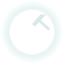
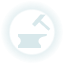
further style adjustments

Changed region(s): [[0.2812, 0.5312, 0.75, 0.75]]

diff --git a/src/db/skills-db.ts b/src/db/skills-db.ts
@@ -157,6 +157,7 @@ const SKILL_DB: Record<SkillId, SkillConfig> = {
       "Teach your swarms to sift shattered bricks with purpose, increasing stone drawn from debris.",
     nodePosition: { x: 0, y: 1 },
     maxLevel: 3,
+    icon: "resource_gain_1.png",
     effects: {
       brick_rewards: {
         multiplier: (level) => 1 + 0.25 * level,
@@ -172,6 +173,7 @@ const SKILL_DB: Record<SkillId, SkillConfig> = {
       "Bind mindless servitors to repeat simple rites for you, enabling basic ritual automation.",
     nodePosition: { x: -1, y: 2 },
     maxLevel: 1,
+    icon: "automation_1.png",
     effects: {},
     nodesRequired: { stone_lore: 1 },
     cost: createStoneCost(10, 1),
@@ -183,6 +185,7 @@ const SKILL_DB: Record<SkillId, SkillConfig> = {
       "Engrave restart sigils—summoning resumes on its own when the weave collapses.",
     nodePosition: { x: -1, y: 3 },
     maxLevel: 1,
+    icon: "automation_2.png",
     effects: {},
     nodesRequired: { stone_automatons: 1 },
     cost: createStoneCost(500, 1),
@@ -194,6 +197,7 @@ const SKILL_DB: Record<SkillId, SkillConfig> = {
       "Found a guild to coordinate permanent worksites, unlocking dedicated building plans.",
     nodePosition: { x: -1, y: 4 },
     maxLevel: 1,
+    icon: "constructions_1.png",
     effects: {},
     nodesRequired: { autorestart_rituals: 1 },
     cost: createResourceCost("copper", 50, 1),
@@ -205,6 +209,7 @@ const SKILL_DB: Record<SkillId, SkillConfig> = {
       "Codify advanced methods for large works—foundation for superior structures.",
     nodePosition: { x: -1, y: 5 },
     maxLevel: 1,
+    icon: "constructions_2.png",
     effects: {},
     nodesRequired: { construction_guild: 1 },
     cost: createResourceCost("copper", 5000, 1),
@@ -216,6 +221,7 @@ const SKILL_DB: Record<SkillId, SkillConfig> = {
       "Improve your crafting speed.",
     nodePosition: { x: -1, y: 6 },
     maxLevel: 20,
+    icon: "crafting_speed.png",
     effects: {
       "crafting_speed_mult": {
         multiplier: (level) => 1 + 0.125 * level,
@@ -231,6 +237,7 @@ const SKILL_DB: Record<SkillId, SkillConfig> = {
       "Account every shard and shipment; precision cuts future building costs.",
     nodePosition: { x: -2, y: 5 },
     maxLevel: 80,
+    icon: "constructions_ledger.png",
     effects: {
       building_cost_multiplier: {
         multiplier: (level) => Math.pow(0.95, level),
@@ -245,6 +252,7 @@ const SKILL_DB: Record<SkillId, SkillConfig> = {
     description:
       "Assign tireless haulers so rubble never settles—more stone per shattered brick.",
     nodePosition: { x: 0, y: 2 },
+    icon: "resource_gain_2.png",
     maxLevel: 5,
     effects: {
       brick_rewards: {
@@ -261,6 +269,7 @@ const SKILL_DB: Record<SkillId, SkillConfig> = {
       "Refine sorting rites; your gatherers pull richer fragments from the wreckage.",
     nodePosition: { x: 0, y: 3 },
     maxLevel: 15,
+    icon: "resource_gain_3.png",
     effects: {
       brick_rewards: {
         multiplier: (level) => 1 + 0.08 * level,
@@ -276,6 +285,7 @@ const SKILL_DB: Record<SkillId, SkillConfig> = {
       "Further hone refinement patterns to squeeze even more yield from debris.",
     nodePosition: { x: 0, y: 5 },
     maxLevel: 8,
+    icon: "resource_gain_4.png",
     effects: {
       brick_rewards: {
         multiplier: (level) => 1 + 0.125 * level,
@@ -291,6 +301,7 @@ const SKILL_DB: Record<SkillId, SkillConfig> = {
       "Imprint a structural chord into your entities, enabling attachment of organs and parts.",
     nodePosition: { x: 1, y: 2 },
     maxLevel: 1,
+    icon: "chorde.png",
     effects: {},
     nodesRequired: { stone_lore: 3 },
     cost: createSandCost(150, 1),
@@ -302,6 +313,7 @@ const SKILL_DB: Record<SkillId, SkillConfig> = {
       "Seed your chord lattice with signal glands so your beasts can coordinate through scent and surge.",
     nodePosition: { x: 2, y: 3 },
     maxLevel: 1,
+    icon: "pheromones.png",
     effects: {},
     nodesRequired: { void_modules: 1 },
     cost: createResourceCost("organics", 200, 1),
@@ -314,6 +326,7 @@ const SKILL_DB: Record<SkillId, SkillConfig> = {
     nodePosition: { x: 2, y: 4 },
     nodesRequired: { pheromones: 1 },
     maxLevel: 1,
+    icon: "ice_mastery.png",
     effects: {},
     cost: createResourceCost("ice", 400, 1),
   },
@@ -325,6 +338,7 @@ const SKILL_DB: Record<SkillId, SkillConfig> = {
     nodePosition: { x: 3, y: 3 },
     nodesRequired: { pheromones: 1 },
     maxLevel: 1,
+    icon: "fire_mastery.png",
     effects: {
     },
     cost: createResourceCost("magma", 400, 1),
@@ -1008,6 +1022,7 @@ const SKILL_DB: Record<SkillId, SkillConfig> = {
     description: "Pulp organics into disciplined sheets fit for resilient schematics.",
     nodePosition: { x: 7, y: 0 },
     maxLevel: 1,
+    icon: "paper_craft.png",
     effects: {},
     nodesRequired: { vitality3: 5 },
     cost: createDualResourceCost('organics', 120, 1, 'wood', 80, 1),

diff --git a/src/ui/screens/VoidCamp/components/CampContent/TabPanels/SkillTree/SkillTreeView.css b/src/ui/screens/VoidCamp/components/CampContent/TabPanels/SkillTree/SkillTreeView.css
@@ -65,7 +65,7 @@
   height: 78px;
   border-radius: 50%;
   border: 2px solid rgba(184, 184, 184, 0.35);
-  background: radial-gradient(circle at 35% 30%, rgba(148, 184, 184, 1.0), rgba(15, 15, 15, 1.0));
+  background: radial-gradient(circle at 35% 30%, rgb(85, 105, 105), rgba(15, 15, 15, 1.0));
   color: #e2e8f0;
   font-weight: 700;
   letter-spacing: 0.05em;
@@ -166,7 +166,7 @@
 
 .skill-tree-node--maxed {
   border-color: rgba(147, 147, 147, 0.85);
-  background: radial-gradient(circle at 40% 30%, rgb(83, 94, 109), rgb(21, 28, 41));
+  background: radial-gradient(circle at 40% 30%, rgb(53, 60, 70), rgb(21, 28, 41));
 }
 
 .skill-tree-node--active {
